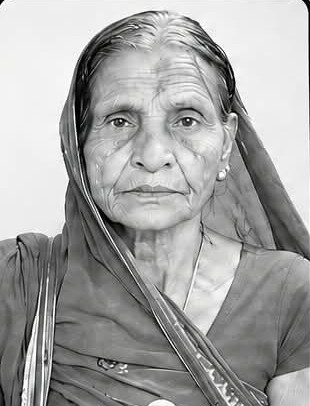
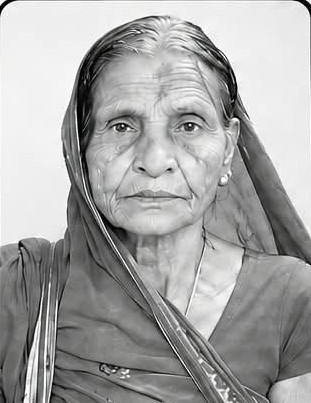
Add files via upload

diff --git a/lib/render-card.ts b/lib/render-card.ts
@@ -144,6 +144,13 @@ function stack(ctx: Ctx, paras: string[], z: { x: number; y: number; w: number; 
   });
 }
 
+/* parts of the plate that must stay IN FRONT of the portrait (lilies, leaves, diya flame) */
+const FOREGROUND_1: [number, number][][] = [
+  [[80,646],[104,648],[118,664],[120,684],[142,688],[150,700],[165,704],[170,712],[180,712],[192,725],[196,745],[190,764],[70,764],[70,646]],
+  [[395,640],[372,646],[358,664],[352,678],[342,684],[330,700],[318,704],[308,716],[296,728],[270,732],[268,748],[270,764],[400,764],[400,640]],
+  [[221,748],[233,716],[245,748]],
+];
+
 /* ---------- main draw ---------- */
 export type DrawArgs = {
   c: CardContent; recipient: string; recipientTitle: string; images: CardImages; design?: Design;
@@ -156,14 +163,24 @@ export function drawCard(ctx: Ctx, a: DrawArgs) {
   ctx.fillStyle = WHITE; ctx.fillRect(0, 0, W, H);
   ctx.drawImage(images.plate, 0, 0, W, H);
 
-  // portrait inside the oval frame
+  // portrait: fills the WHOLE oval opening of the frame (hides the artwork's sample photo),
+  // then the lilies / flame of the plate are painted back on top.
   if (images.portrait) {
+    const im = images.portrait, bx = 76, by = 368, bw = 316, bh = 376;
     ctx.save();
-    ctx.beginPath(); ctx.ellipse(103 + 140, 363 + 172, 140, 172, 0, 0, Math.PI * 2); ctx.clip();
-    const im = images.portrait, s = Math.max(280 / im.width, 344 / im.height);
+    ctx.beginPath(); ctx.ellipse(234, 556, 158, 188, 0, 0, Math.PI * 2); ctx.clip();
+    ctx.fillStyle = "#2a2a2a"; ctx.fillRect(bx, by, bw, bh);
+    const s = Math.max(bw / im.width, bh / im.height);
     const dw = im.width * s, dh = im.height * s;
-    ctx.drawImage(im, 103 + (280 - dw) / 2, 363 + (344 - dh) / 2, dw, dh);
+    ctx.drawImage(im, bx + (bw - dw) / 2, by + (bh - dh) * 0.1, dw, dh);
     ctx.restore();
+    for (const poly of FOREGROUND_1) {
+      ctx.save(); ctx.beginPath();
+      poly.forEach(([x, y], i) => (i ? ctx.lineTo(x, y) : ctx.moveTo(x, y)));
+      ctx.closePath(); ctx.clip();
+      ctx.drawImage(images.plate, 0, 0, W, H);
+      ctx.restore();
+    }
   }
 
   // ---- header
@@ -268,14 +285,15 @@ function drawCard2(ctx: Ctx, a: DrawArgs) {
   ctx.fillStyle = WHITE; ctx.fillRect(0, 0, 1536, 1024);
   ctx.drawImage(images.plate, 0, 0, 1536, 1024);
 
-  // portrait in the rounded frame (x 48..358, y 92..498)
+  // portrait fills the whole frame opening (x 46..357, y 87..491); roses sit in front of it
   if (images.portrait) {
-    const px = 48, py = 92, pw = 310, ph = 409;
+    const px = 46, py = 87, pw = 311.5, ph = 404;
     ctx.save();
-    ctx.beginPath(); (ctx as any).roundRect ? (ctx as any).roundRect(px, py, pw, ph, 14) : ctx.rect(px, py, pw, ph); ctx.clip();
+    ctx.beginPath(); ctx.rect(px, py, pw, ph); ctx.clip();
+    ctx.fillStyle = "#e9e9e9"; ctx.fillRect(px, py, pw, ph);
     const im = images.portrait, s = Math.max(pw / im.width, ph / im.height);
     const dw = im.width * s, dh = im.height * s;
-    ctx.drawImage(im, px + (pw - dw) / 2, py + Math.min(0, (ph - dh) * 0.25), dw, dh);
+    ctx.drawImage(im, px + (pw - dw) / 2, py + (ph - dh) * 0.12, dw, dh);
     ctx.restore();
   }
 

diff --git a/CHANGELOG.md b/CHANGELOG.md
@@ -28,3 +28,6 @@
 ## 3.3.0
 - **Card 2 added** (landscape 1536x1024, same look as the supplied design). Wording comes from the same database content as Card 1 (new optional field `salutation2` = "सेवा में," editable in admin). The visitor picks Card 1 / Card 2; preview, PDF (landscape page) and JPG follow the choice. Admin preview has the same switch.
 - New assets: public/shradhanjali-plate-2.jpg, public/default-portrait-2.jpg. Added Noto Sans Devanagari 700/800 font imports.
+
+## 3.3.1
+- Portrait now fills the whole frame in both designs. Card 1: the photo covers the full oval opening (the plate's sample man is no longer visible) and the lilies / diya flame are painted back in front. Card 2: photo fills the frame edge to edge (no white gaps), roses stay in front. Plate 2 / default-portrait-2 regenerated.
